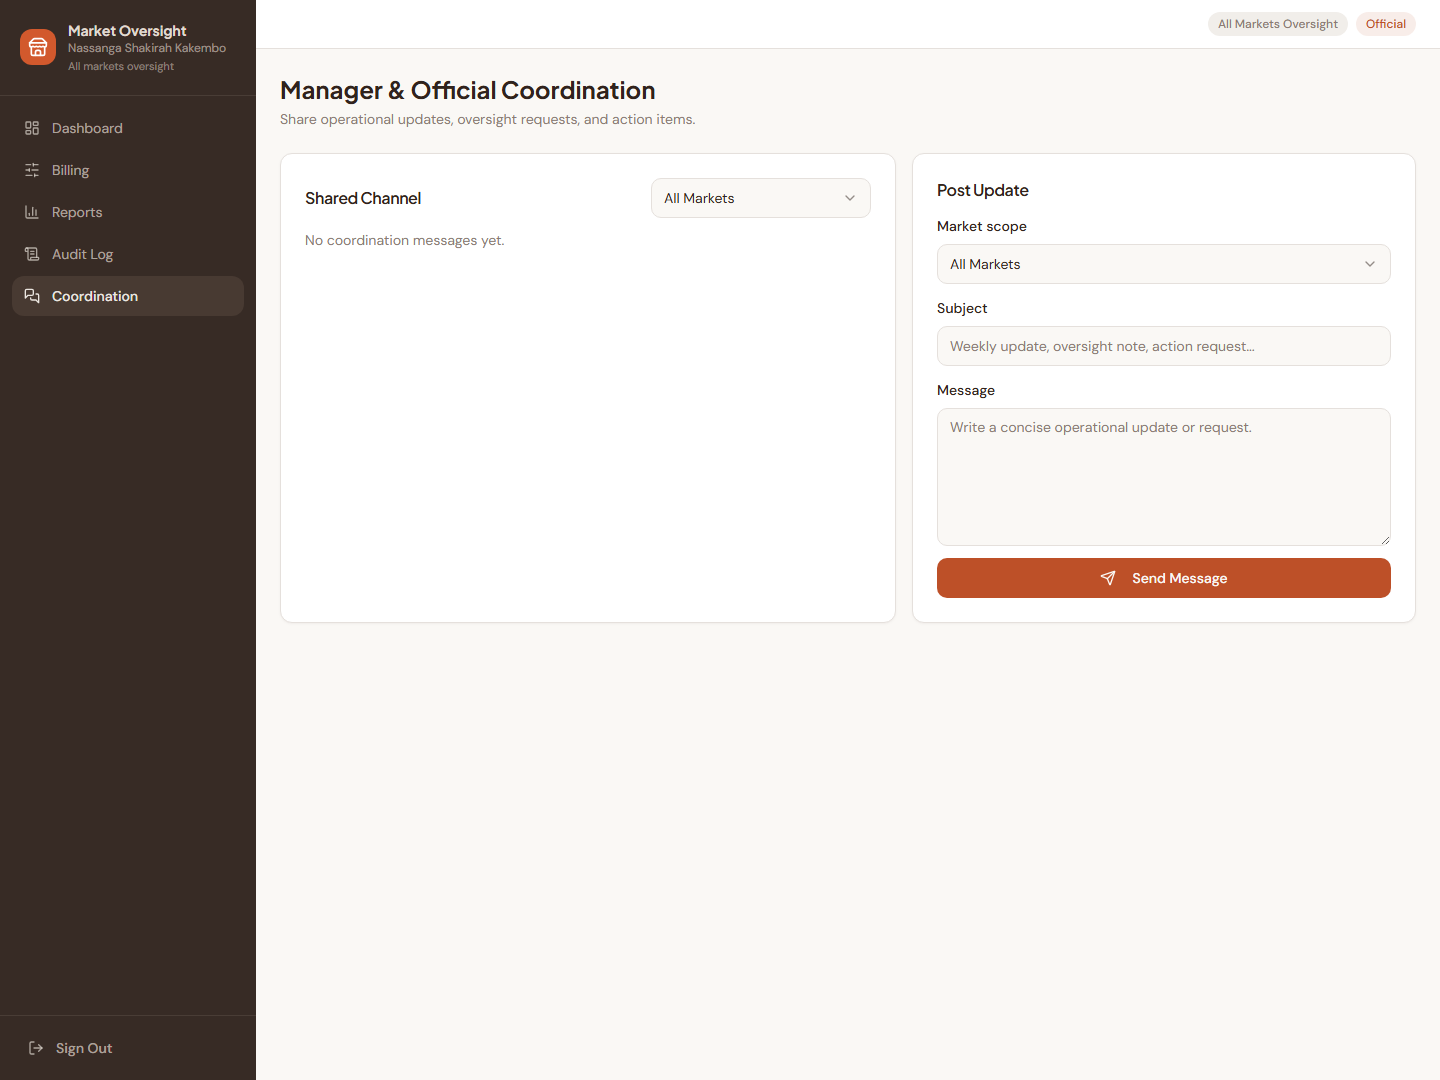
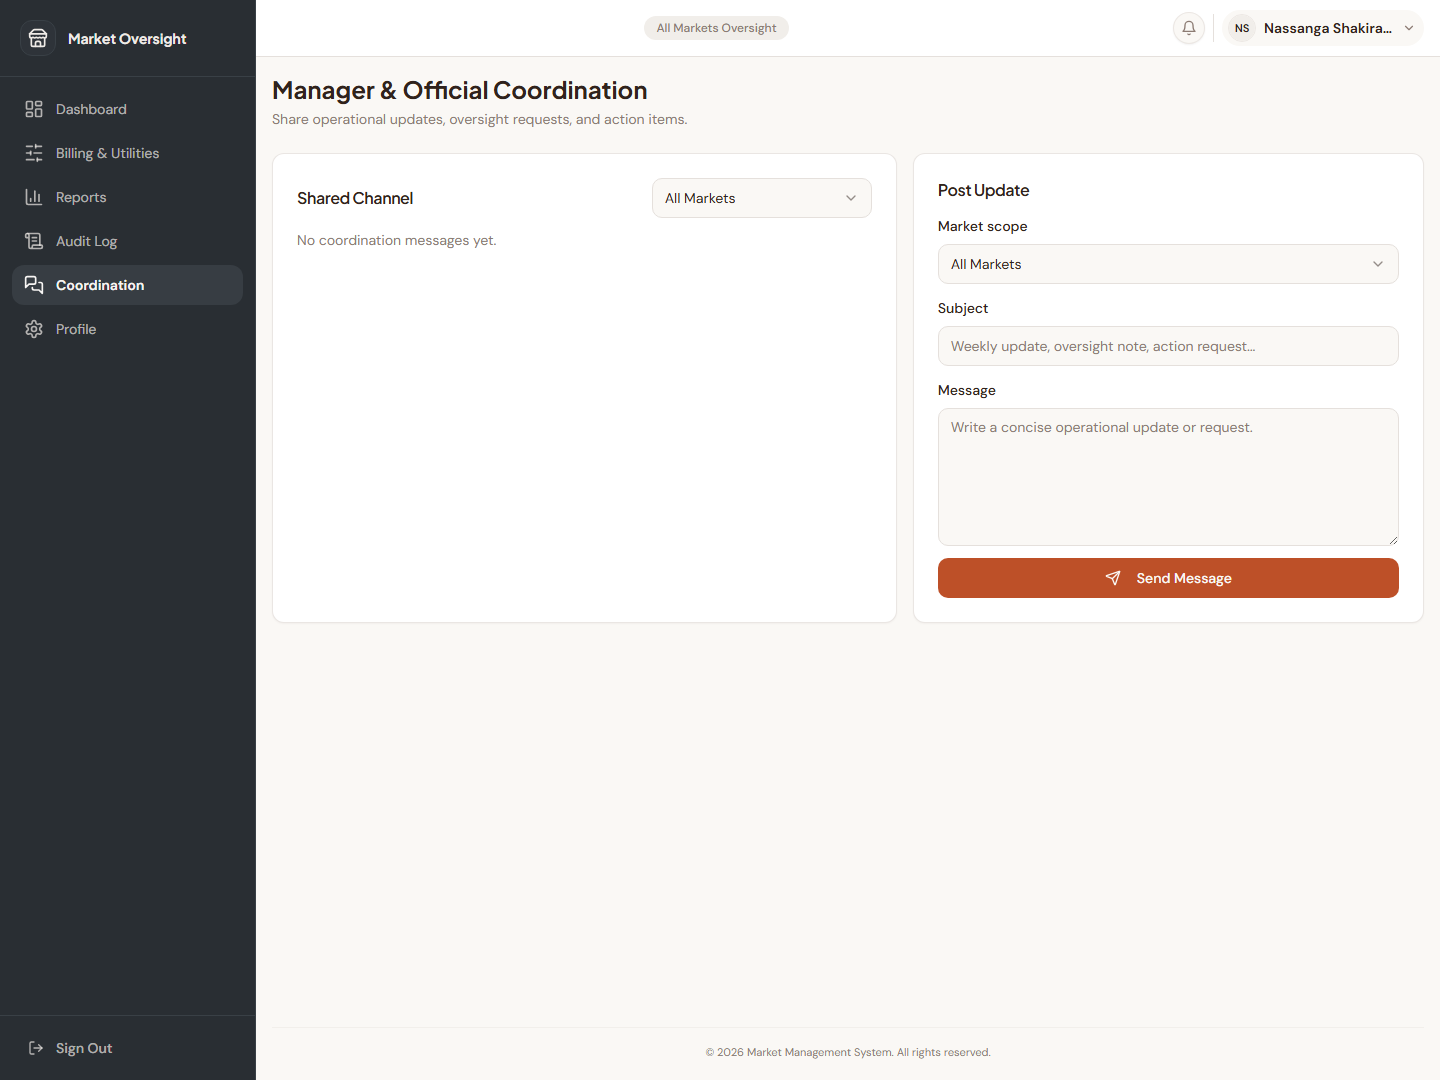
feat: implement automated smoke test suite for role-based access control and navigation

diff --git a/scripts/step6-role-smoke.ts b/scripts/step6-role-smoke.ts
@@ -46,10 +46,10 @@ const users: SmokeUser[] = [
     password: "Admin123!",
     requiresMfa: true,
     expectedHomePath: "/admin",
-    dashboardHeading: "Admin Dashboard",
+    dashboardHeading: "System Administration",
     dashboardHeadingExact: true,
-    navVisible: ["Dashboard", "Billing", "Reports", "Audit Log", "Coordination"],
-    navHidden: ["Stalls", "Payments", "Notifications", "Complaints", "Vendors", "Profile"],
+    navVisible: ["Dashboard", "Billing & Utilities", "Reports", "Audit Log", "Coordination", "Profile"],
+    navHidden: ["Stalls", "Payments & Receipts", "Notifications", "Complaints", "Vendors"],
   },
   {
     label: "manager",
@@ -58,10 +58,10 @@ const users: SmokeUser[] = [
     password: "Manager123!",
     requiresMfa: true,
     expectedHomePath: "/manager",
-    dashboardHeading: "Manager Dashboard",
-    dashboardHeadingExact: true,
-    navVisible: ["Dashboard", "Vendors", "Stalls", "Payments", "Complaints", "Billing", "Reports", "Audit Log", "Coordination"],
-    navHidden: ["Notifications", "Profile"],
+    dashboardHeading: /Good (morning|afternoon|evening),/,
+    dashboardHeadingExact: false,
+    navVisible: ["Dashboard", "Vendors", "Stalls", "Payments & Receipts", "Complaints", "Billing & Utilities", "Reports", "Audit Log", "Coordination", "Profile"],
+    navHidden: ["Notifications"],
   },
   {
     label: "official",
@@ -70,10 +70,10 @@ const users: SmokeUser[] = [
     password: "Official123!",
     requiresMfa: true,
     expectedHomePath: "/official",
-    dashboardHeading: "Official Dashboard",
+    dashboardHeading: "National Market Oversight",
     dashboardHeadingExact: true,
-    navVisible: ["Dashboard", "Billing", "Reports", "Audit Log", "Coordination"],
-    navHidden: ["Stalls", "Payments", "Notifications", "Complaints", "Vendors", "Profile"],
+    navVisible: ["Dashboard", "Billing & Utilities", "Reports", "Audit Log", "Coordination", "Profile"],
+    navHidden: ["Stalls", "Payments & Receipts", "Notifications", "Complaints", "Vendors"],
   },
   {
     label: "vendor-james",
@@ -82,10 +82,10 @@ const users: SmokeUser[] = [
     password: "Vendor123!",
     requiresMfa: false,
     expectedHomePath: "/vendor",
-    dashboardHeading: /Welcome back,/,
+    dashboardHeading: /Good (morning|afternoon|evening),/,
     dashboardHeadingExact: false,
-    navVisible: ["Dashboard", "Stalls", "Payments", "Notifications", "Complaints", "Profile"],
-    navHidden: ["Vendors", "Billing", "Reports", "Audit Log", "Coordination"],
+    navVisible: ["Dashboard", "Stalls", "Payments & Receipts", "Notifications", "Complaints", "Profile"],
+    navHidden: ["Vendors", "Billing & Utilities", "Reports", "Audit Log", "Coordination"],
   },
   {
     label: "vendor-precious",
@@ -94,10 +94,10 @@ const users: SmokeUser[] = [
     password: "Vendor123!",
     requiresMfa: false,
     expectedHomePath: "/vendor",
-    dashboardHeading: /Welcome back,/,
+    dashboardHeading: /Good (morning|afternoon|evening),/,
     dashboardHeadingExact: false,
-    navVisible: ["Dashboard", "Stalls", "Payments", "Notifications", "Complaints", "Profile"],
-    navHidden: ["Vendors", "Billing", "Reports", "Audit Log", "Coordination"],
+    navVisible: ["Dashboard", "Stalls", "Payments & Receipts", "Notifications", "Complaints", "Profile"],
+    navHidden: ["Vendors", "Billing & Utilities", "Reports", "Audit Log", "Coordination"],
   },
 ];
 
@@ -333,11 +333,11 @@ const verifyAdminFlow = async (page: import("playwright").Page, result: SmokeRes
   result.billingBehavior.penaltiesRestored = true;
 
   await gotoAndCheckHeading(page, "/admin/reports", "Reports");
-  result.pages.reports = await labelVisible(page, "Market");
   result.pages.financialAuditVisible = (await page.getByText("Financial Audit", { exact: true }).count()) > 0;
+  result.pages.reports = result.pages.financialAuditVisible;
 
   await gotoAndCheckHeading(page, "/admin/audit", "Audit Trail");
-  result.pages.audit = await labelVisible(page, "Market");
+  result.pages.audit = (await page.getByText("Audit Events", { exact: true }).count()) > 0;
 
   await gotoAndCheckHeading(page, "/admin/coordination", "Manager & Official Coordination");
   result.pages.coordination = (await page.getByText("Shared Channel", { exact: true }).count()) > 0;
@@ -387,10 +387,10 @@ const verifyOfficialFlow = async (page: import("playwright").Page, result: Smoke
   };
 
   await gotoAndCheckHeading(page, "/official/reports", "Reports");
-  result.pages.reports = await labelVisible(page, "Market");
+  result.pages.reports = (await page.getByText("Financial Audit", { exact: true }).count()) > 0;
 
   await gotoAndCheckHeading(page, "/official/audit", "Audit Trail");
-  result.pages.audit = await labelVisible(page, "Market");
+  result.pages.audit = (await page.getByText("Audit Events", { exact: true }).count()) > 0;
 
   await gotoAndCheckHeading(page, "/official/coordination", "Manager & Official Coordination");
   result.pages.coordination = (await page.getByText("Shared Channel", { exact: true }).count()) > 0;
@@ -410,7 +410,8 @@ const verifyVendorFlow = async (page: import("playwright").Page, result: SmokeRe
   result.pages.stalls = true;
 
   await gotoAndCheckHeading(page, "/vendor/payments", "Payments");
-  result.pages.payments = (await page.getByText("Approved Bookings", { exact: false }).count()) > 0;
+  await page.getByText("Payment History & Evidence", { exact: true }).waitFor({ state: "visible", timeout: 20_000 });
+  result.pages.payments = true;
 
   await gotoAndCheckHeading(page, "/vendor/notifications", "Notifications");
   result.pages.notifications = true;
@@ -418,7 +419,7 @@ const verifyVendorFlow = async (page: import("playwright").Page, result: SmokeRe
   await gotoAndCheckHeading(page, "/vendor/complaints", "Complaints & Disputes");
   result.pages.complaints = (await page.getByRole("button", { name: "New Complaint", exact: true }).count()) > 0;
 
-  await gotoAndCheckHeading(page, "/vendor/profile", "My Profile");
+  await gotoAndCheckHeading(page, "/vendor/profile", "General Information");
   result.pages.profile = (await page.getByRole("button", { name: "Save Changes", exact: true }).count()) > 0;
 };
 

diff --git a/README.md b/README.md
@@ -211,7 +211,7 @@ Core app settings:
 - `API_PORT` defaults to `3001`
 - `APP_ENV` defaults to `development`
 - `APP_NAME` defaults to `MMS`
-- `APP_URL` defaults to `http://localhost:8080` and can be a comma-separated list of allowed frontend origins
+- `APP_URL` defaults to local dev origins (`http://localhost:8080`, `http://localhost:5173`, `http://127.0.0.1:5173`) and can be a comma-separated list of allowed frontend origins
 - `API_URL` defaults to `http://localhost:3001`
 - `VITE_API_BASE_URL` sets the frontend API base URL
 - `MMS_DATA_DIR` defaults to `./runtime`
